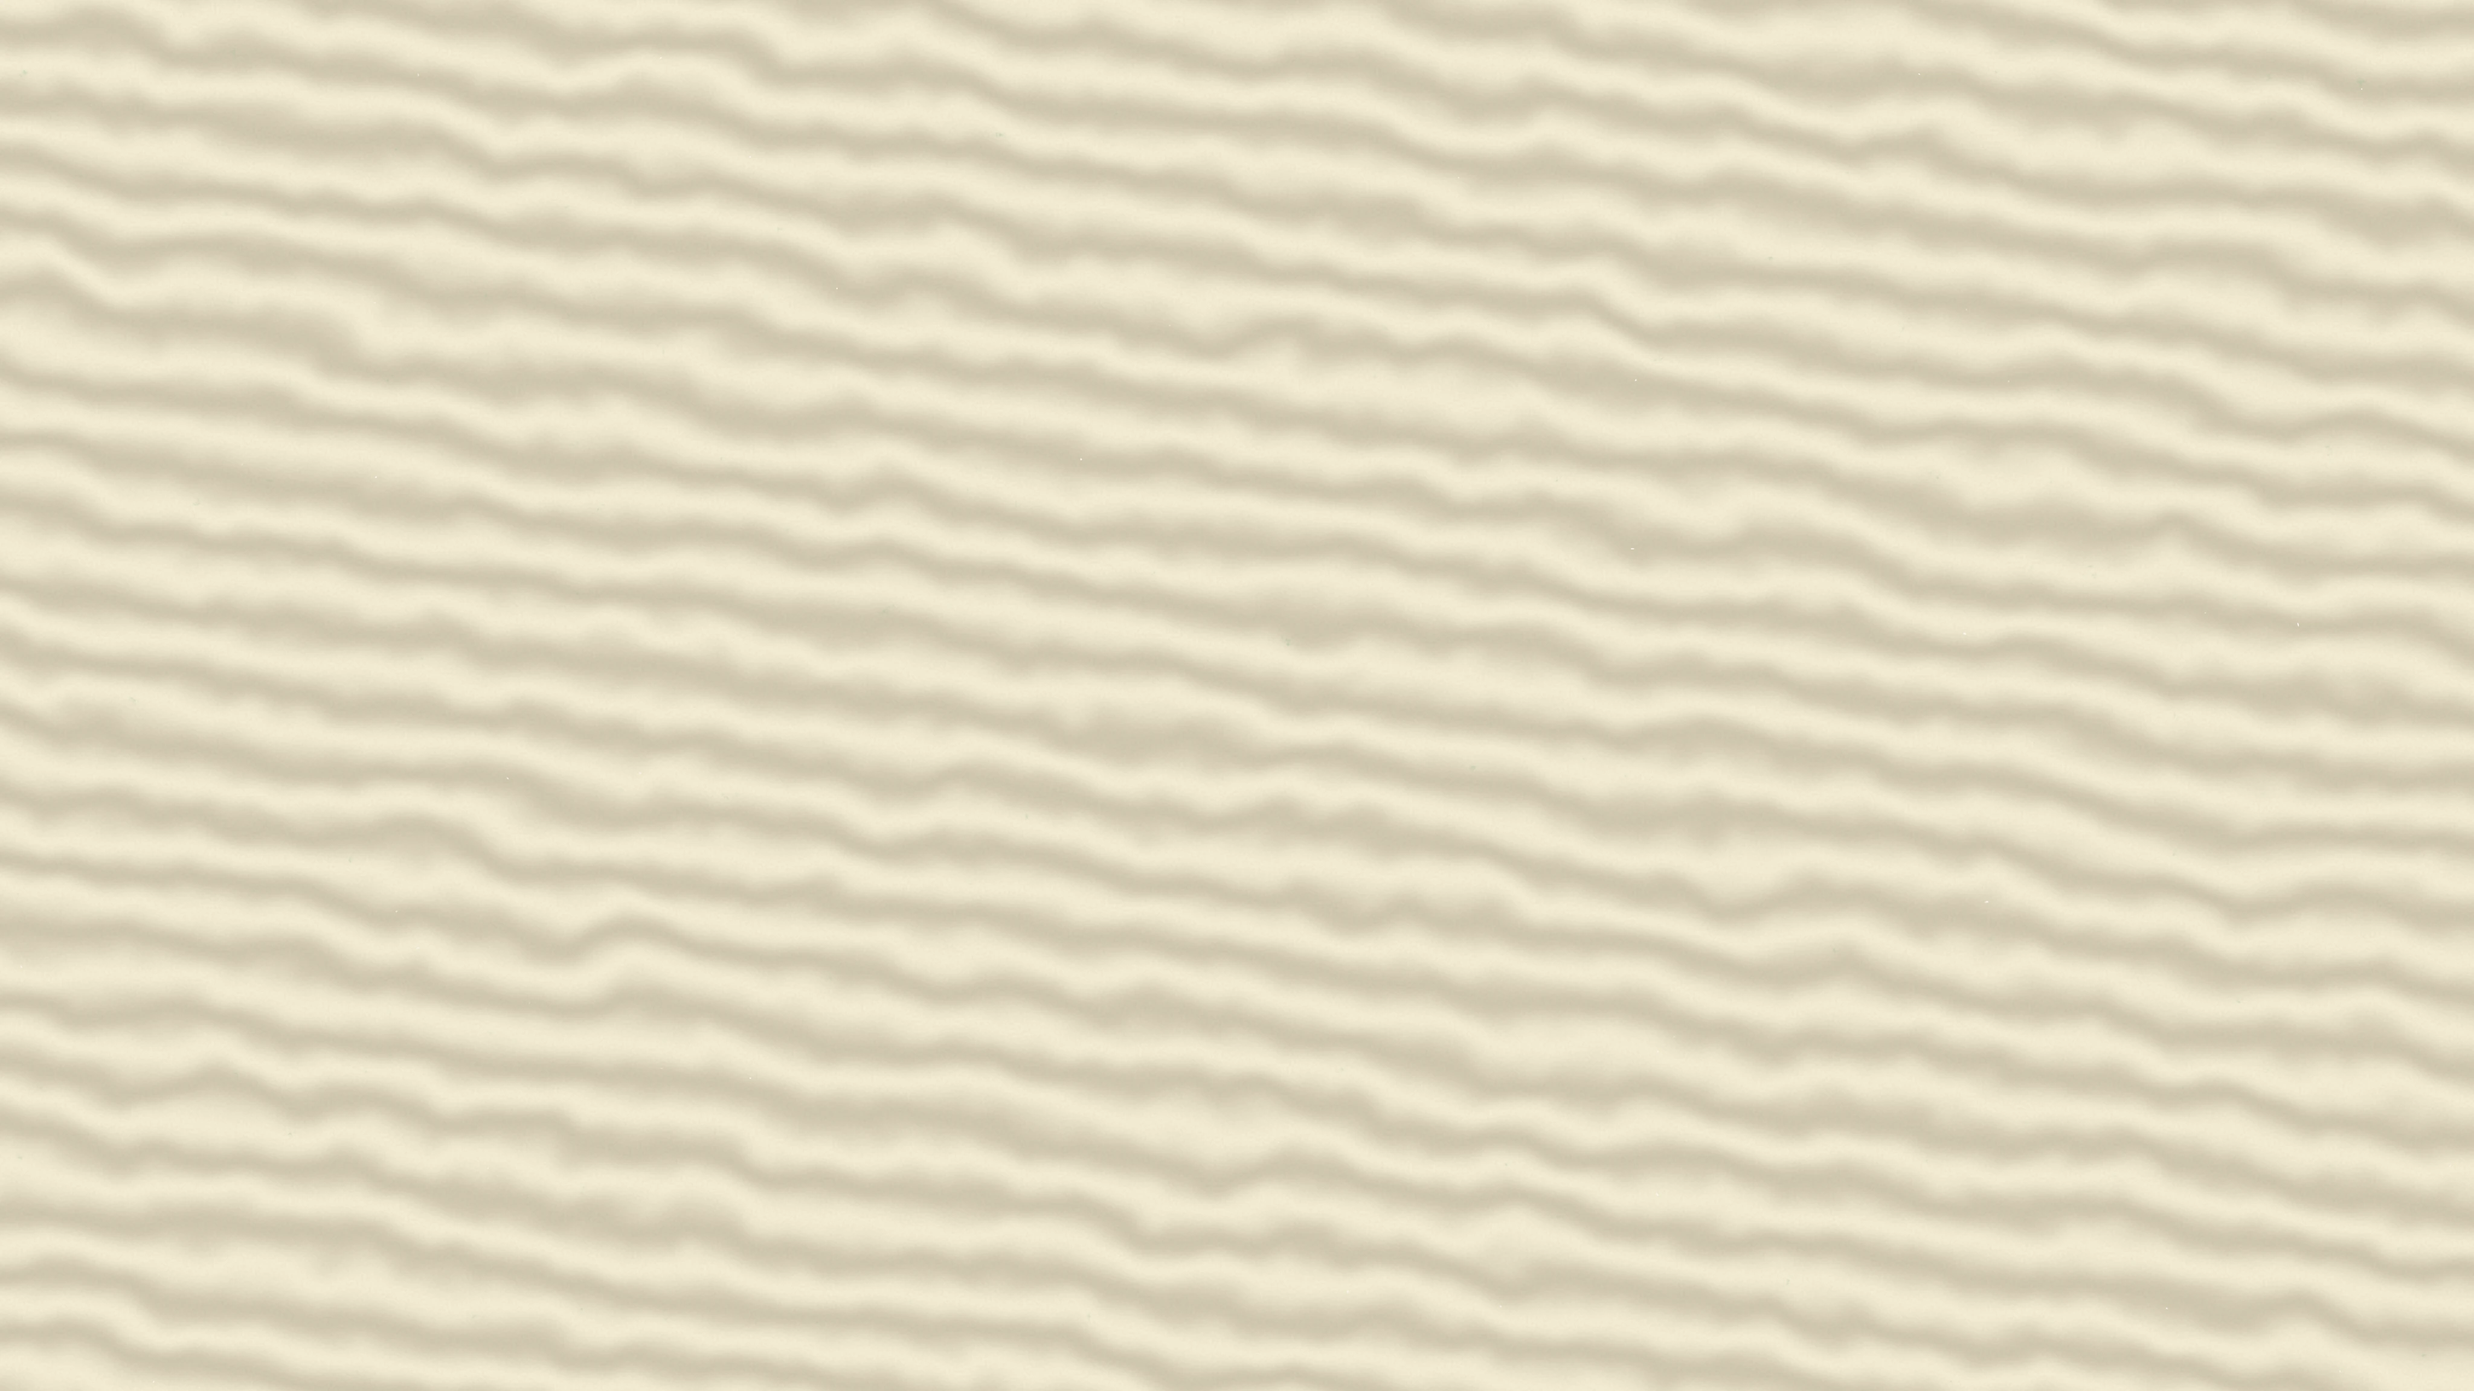
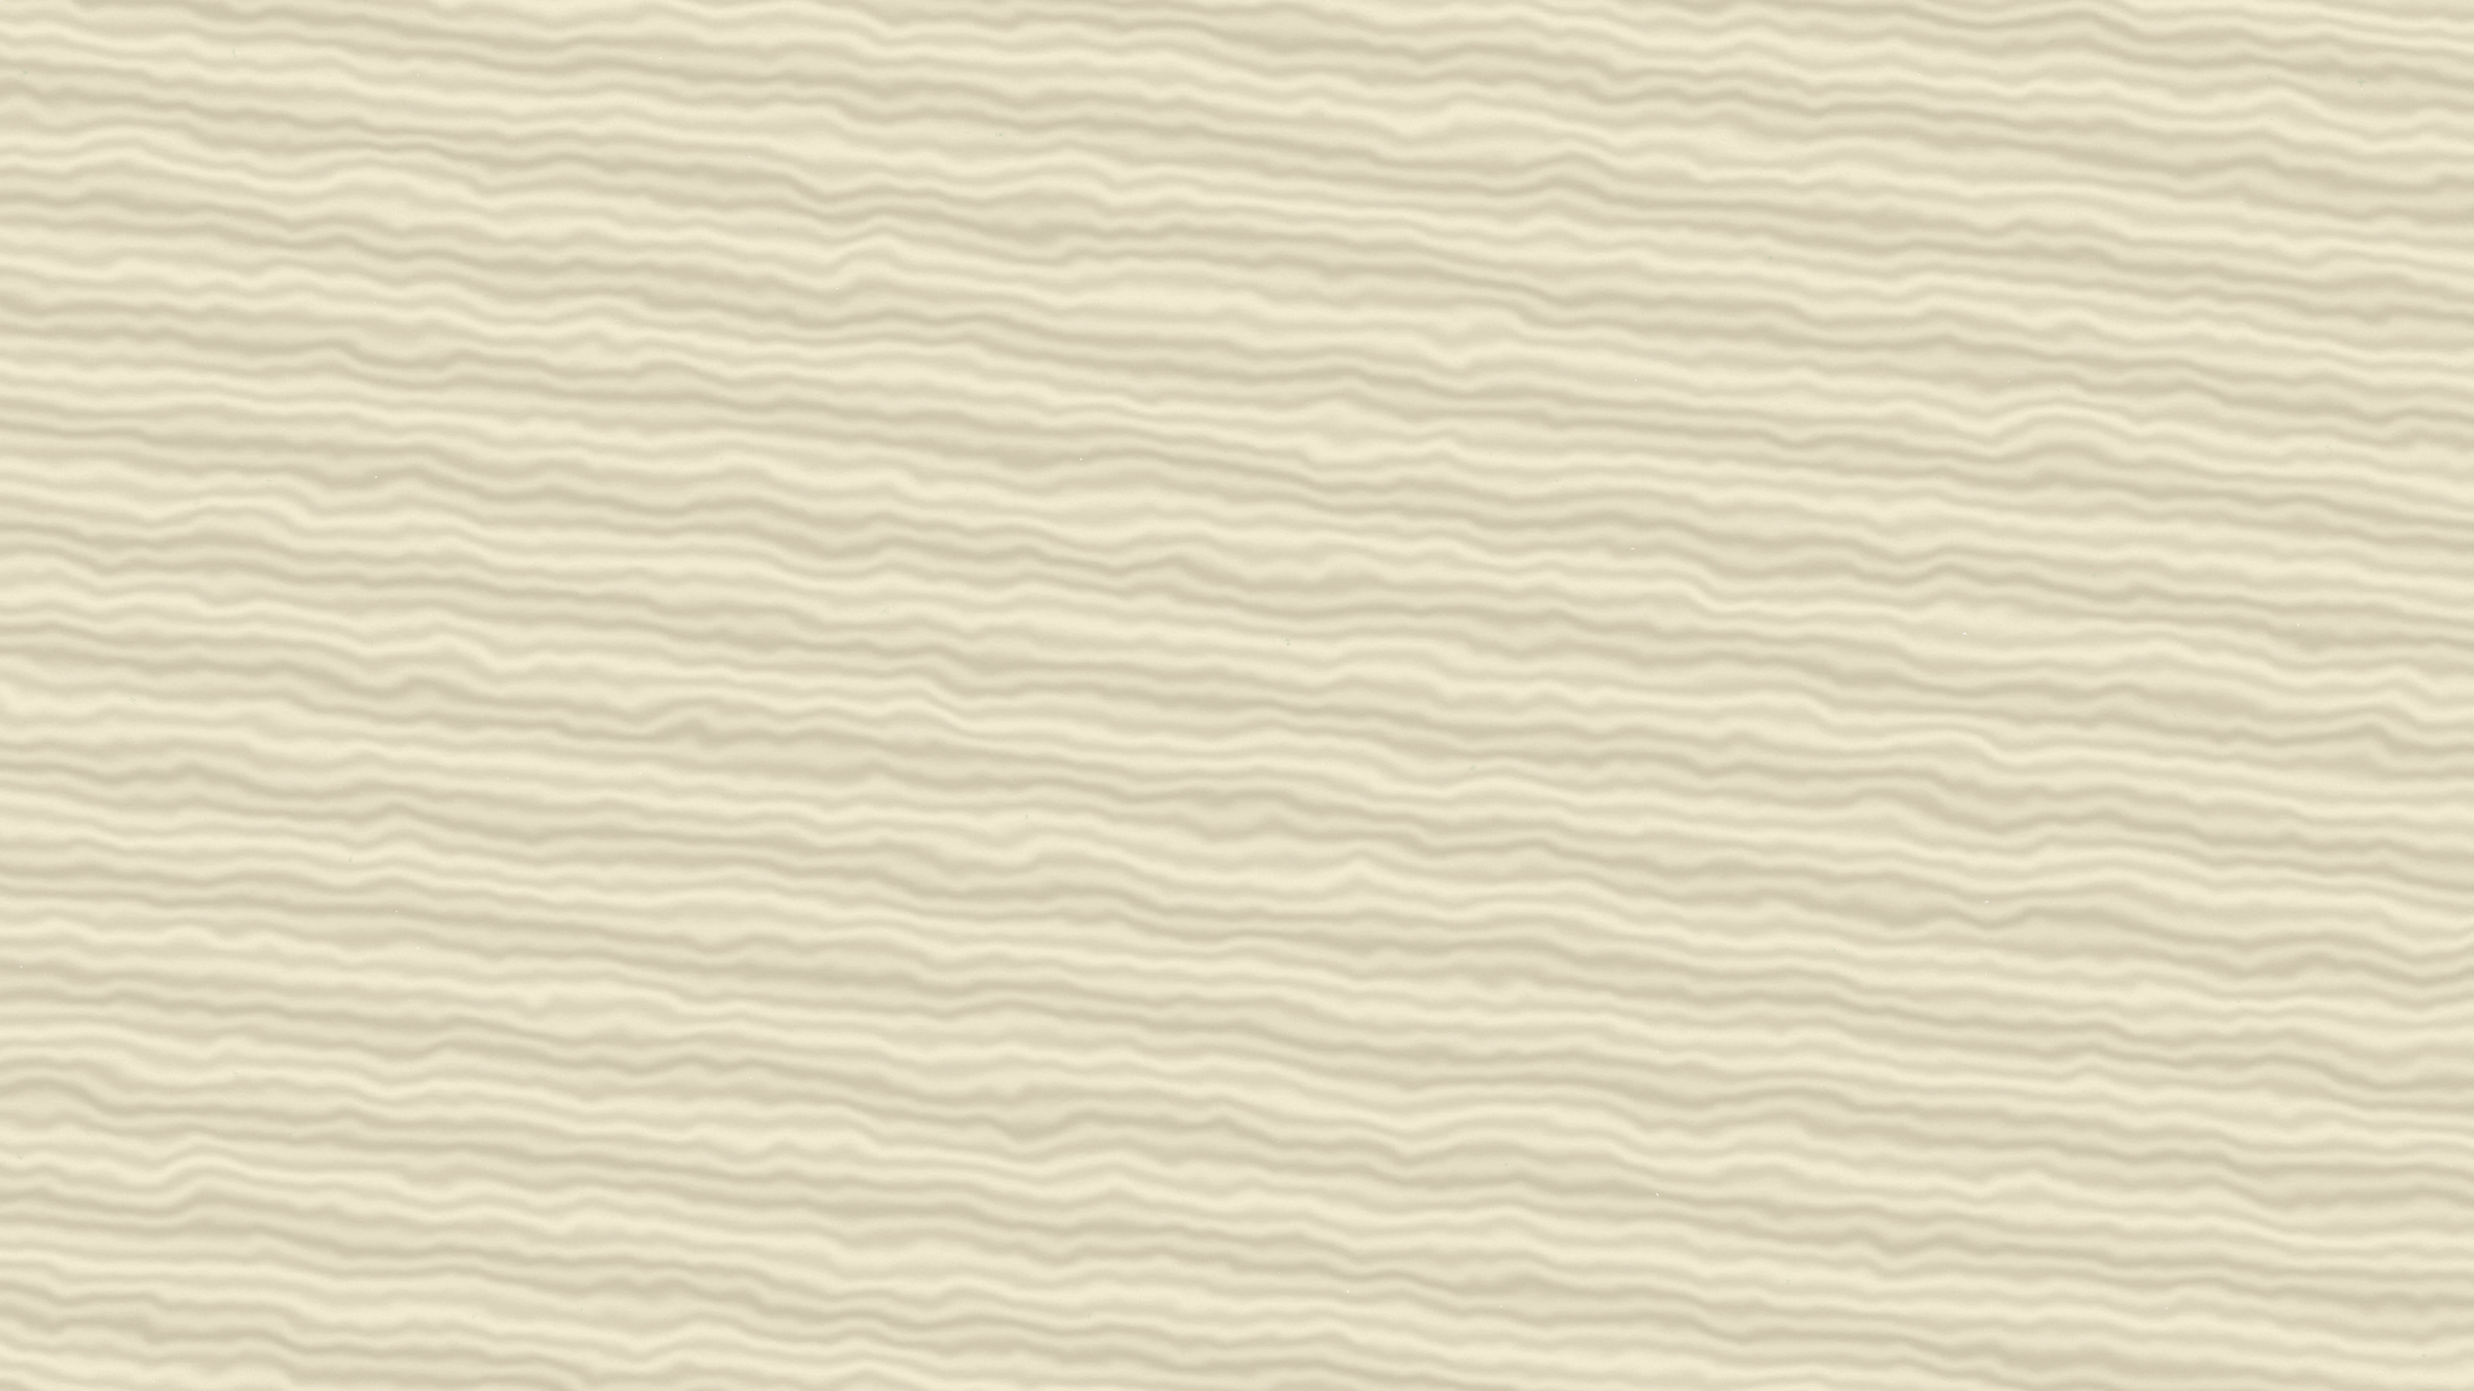
Aspect-aware world: no more stretching on phones
World size now follows the viewport aspect at constant area; the wave
grid, bind groups and plant placement rebuild on resize while fish keep
their relative positions. Bed bakes are cropped to the world aspect
instead of stretched. Lagoon sand rebaked with finer ripples.

diff --git a/src/gpu/plants-pass.ts b/src/gpu/plants-pass.ts
@@ -23,7 +23,11 @@ export class PlantsPass {
   private crumbCount = 0;
   /** One uniform block per mode (0 surface, 1 shadow) so both passes can live in one command buffer. */
   private readonly params: UniformBlock[];
-  private readonly bindGroups: GPUBindGroup[][];
+  private bindGroups: GPUBindGroup[][];
+  private readonly layout: GPUBindGroupLayout;
+  private readonly sampler: GPUSampler;
+  private readonly env: EnvironmentTextures;
+  private readonly wave: WaveField;
   private readonly shadowPipeline: GPURenderPipeline;
   private readonly surfacePipeline: GPURenderPipeline;
 
@@ -31,6 +35,8 @@ export class PlantsPass {
 
   constructor(device: GPUDevice, wave: WaveField, env: EnvironmentTextures) {
     this.sprites = env.sprites;
+    this.env = env;
+    this.wave = wave;
     this.instances = device.createBuffer({
       label: "plant instances",
       size: MAX_PLANT_INSTANCES * PLANT_INSTANCE_FLOATS * 4,
@@ -54,19 +60,9 @@ export class PlantsPass {
         { binding: 4, visibility: GPUShaderStage.FRAGMENT, texture: { viewDimension: "2d-array" } },
       ],
     });
-    const sampler = device.createSampler({ magFilter: "linear", minFilter: "linear", addressModeU: "clamp-to-edge", addressModeV: "clamp-to-edge" });
-    this.bindGroups = this.params.map((block) => [0, 1, 2].map((i) =>
-      device.createBindGroup({
-        layout,
-        entries: [
-          { binding: 0, resource: { buffer: block.buffer } },
-          { binding: 1, resource: { buffer: wave.bufferAt(i) } },
-          { binding: 2, resource: env.sprites.texture.createView({ dimension: "2d-array" }) },
-          { binding: 3, resource: sampler },
-          { binding: 4, resource: env.sprites.normals.createView({ dimension: "2d-array" }) },
-        ],
-      }),
-    ));
+    this.layout = layout;
+    this.sampler = device.createSampler({ magFilter: "linear", minFilter: "linear", addressModeU: "clamp-to-edge", addressModeV: "clamp-to-edge" });
+    this.bindGroups = this.makeBindGroups();
 
     const module = device.createShaderModule({ label: "plants", code: plantShader });
     const makePipeline = (label: string): GPURenderPipeline =>
@@ -104,6 +100,26 @@ export class PlantsPass {
   }
 
   /** Upload per-frame uniforms. Called once before either draw. */
+  private makeBindGroups(): GPUBindGroup[][] {
+    return this.params.map((block) => [0, 1, 2].map((i) =>
+      this.device.createBindGroup({
+        layout: this.layout,
+        entries: [
+          { binding: 0, resource: { buffer: block.buffer } },
+          { binding: 1, resource: { buffer: this.wave.bufferAt(i) } },
+          { binding: 2, resource: this.env.sprites.texture.createView({ dimension: "2d-array" }) },
+          { binding: 3, resource: this.sampler },
+          { binding: 4, resource: this.env.sprites.normals.createView({ dimension: "2d-array" }) },
+        ],
+      }),
+    ));
+  }
+
+  /** After the wave field was resized its buffers are new; bind to them again. */
+  rebindWave(): void {
+    this.bindGroups = this.makeBindGroups();
+  }
+
   /** Re-place the floating layer for an environment's foliage and upload it. */
   setFoliage(foliage: Foliage): void {
     this.layer.place(foliage, (name) => this.sprites.layerOf(name));

diff --git a/src/gpu/wave-field.ts b/src/gpu/wave-field.ts
@@ -9,24 +9,17 @@ import { UniformBlock } from "./device";
  * water pass samples.
  */
 export class WaveField {
-  readonly width = WORLD.width;
-  readonly height = WORLD.height;
-  private readonly buffers: GPUBuffer[];
-  private readonly bindGroups: GPUBindGroup[];
+  width = WORLD.width;
+  height = WORLD.height;
+  private buffers: GPUBuffer[];
+  private bindGroups: GPUBindGroup[];
   private readonly pipeline: GPUComputePipeline;
   private readonly params: UniformBlock;
   private readonly impulseBuffer: GPUBuffer;
   private rotation = 0;
 
   constructor(private readonly device: GPUDevice) {
-    const cells = this.width * this.height;
-    this.buffers = [0, 1, 2].map((i) =>
-      device.createBuffer({
-        label: `wave height ${i}`,
-        size: cells * 4,
-        usage: GPUBufferUsage.STORAGE | GPUBufferUsage.COPY_DST,
-      }),
-    );
+    this.buffers = this.makeBuffers();
     this.params = new UniformBlock(device, 32, "wave params");
     this.impulseBuffer = device.createBuffer({
       label: "wave impulses",
@@ -41,10 +34,25 @@ export class WaveField {
       compute: { module, entryPoint: "cs_wave" },
     });
 
+    this.bindGroups = this.makeBindGroups();
+  }
+
+  private makeBuffers(): GPUBuffer[] {
+    const cells = this.width * this.height;
+    return [0, 1, 2].map((i) =>
+      this.device.createBuffer({
+        label: `wave height ${i}`,
+        size: cells * 4,
+        usage: GPUBufferUsage.STORAGE | GPUBufferUsage.COPY_DST,
+      }),
+    );
+  }
+
+  /** Rotation r reads prev=r, curr=r+1, writes next=r+2 (mod 3). */
+  private makeBindGroups(): GPUBindGroup[] {
     const layout = this.pipeline.getBindGroupLayout(0);
-    // Rotation r reads prev=r, curr=r+1, writes next=r+2 (mod 3).
-    this.bindGroups = [0, 1, 2].map((r) =>
-      device.createBindGroup({
+    return [0, 1, 2].map((r) =>
+      this.device.createBindGroup({
         label: `wave bind ${r}`,
         layout,
         entries: [
@@ -56,6 +64,17 @@ export class WaveField {
         ],
       }),
     );
+  }
+
+  /** Change the grid to a new world size. Callers must rebuild anything bound to the old buffers. */
+  resize(width: number, height: number): void {
+    if (width === this.width && height === this.height) return;
+    for (const b of this.buffers) b.destroy();
+    this.width = width;
+    this.height = height;
+    this.buffers = this.makeBuffers();
+    this.bindGroups = this.makeBindGroups();
+    this.rotation = 0;
   }
 
   /** The buffer holding the latest heights, for the water pass to read. */

diff --git a/src/main.ts b/src/main.ts
@@ -1,6 +1,6 @@
 import { Soundscape } from "./audio/soundscape";
 import { FixedClock } from "./core/clock";
-import { KOI, WAVE, WEATHER, WORLD } from "./core/config";
+import { KOI, setWorldSize, WAVE, WEATHER, WORLD, worldSizeFor } from "./core/config";
 import { ENVIRONMENTS, getEnvironment } from "./core/environments";
 import { CUSTOM_PALETTE_ID, customPalette, getPalette, hexToRgb, PALETTES, rgbToHex } from "./core/palettes";
 import { createGpu } from "./gpu/device";
@@ -27,6 +27,9 @@ async function boot(): Promise<void> {
     return { width, height };
   };
   fitCanvas();
+  // Shape the world to the viewport so nothing is stretched (portrait phones get a tall pond).
+  const initialWorld = worldSizeFor(canvas.width / canvas.height);
+  setWorldSize(initialWorld.width, initialWorld.height);
 
   const gpu = await createGpu(canvas);
   const impulses = new SurfaceImpulses();
@@ -278,6 +281,14 @@ async function boot(): Promise<void> {
       resizePending = false;
       const size = fitCanvas();
       renderer.resize(size.width, size.height);
+      const world = worldSizeFor(size.width / size.height);
+      if (world.width !== WORLD.width || world.height !== WORLD.height) {
+        const sx = world.width / WORLD.width;
+        const sy = world.height / WORLD.height;
+        setWorldSize(world.width, world.height);
+        school.resize(sx, sy);
+        renderer.setWorld(world.width, world.height);
+      }
     }
     renderer.frame(school, impulses, clock.time, frameDt, showDebug);
     sound.setRain(renderer.rainPerSecond);

diff --git a/src/core/config.ts b/src/core/config.ts
@@ -1,14 +1,32 @@
 // Single tuning file. Everything the sim and renderer read lives here so a
 // settings UI can be layered on later without touching subsystem code.
 
+/**
+ * Logical pond size. The simulation runs in these units regardless of screen
+ * size. Width and height follow the viewport's aspect at constant area, so a
+ * portrait phone gets a 270×480 pond instead of a squashed 480×270 one.
+ */
 export const WORLD = {
-  /** Logical pond size. Simulation runs in these units regardless of screen size. */
   width: 480,
   height: 270,
+  /** Reference area the world keeps when it changes shape. */
+  area: 480 * 270,
   /** Render targets are world size × this. 2 keeps the illustrated look crisp on retina. */
   renderScale: 2,
   updatesPerSecond: 60,
-} as const;
+};
+
+/** World size for a viewport aspect (width / height), keeping the reference area. */
+export function worldSizeFor(aspect: number): { width: number; height: number } {
+  const a = Math.max(0.4, Math.min(2.6, aspect));
+  const width = Math.round(Math.sqrt(WORLD.area * a));
+  return { width, height: Math.round(width / a) };
+}
+
+export function setWorldSize(width: number, height: number): void {
+  WORLD.width = width;
+  WORLD.height = height;
+}
 
 export const KOI = {
   count: 14,

diff --git a/src/gpu/renderer.ts b/src/gpu/renderer.ts
@@ -173,6 +173,7 @@ export class Renderer {
     this.postBind = this.makePostBind();
 
     this.writeStaticUniforms();
+    this.setWorld(WORLD.width, WORLD.height);
   }
 
   /** One bind group per wave buffer rotation so we never rebuild mid-frame. */
@@ -199,6 +200,23 @@ export class Renderer {
         { binding: 2, resource: this.sampler },
       ],
     });
+  }
+
+  /** The world changed shape (viewport aspect): rebuild the wave grid and everything bound to it. */
+  setWorld(width: number, height: number): void {
+    this.wave.resize(width, height);
+    this.waterBinds = this.makeWaterBinds();
+    this.plants.rebindWave();
+    this.plants.setFoliage(this.environmentTarget.foliage);
+    const f = this.fishParams.floats;
+    f[0] = width; f[1] = height;
+    this.fishParams.upload();
+    // Crop the 16:9 bed bake to this aspect (never stretch).
+    const worldAspect = width / height;
+    const texAspect = 16 / 9;
+    const b = this.bedParams.floats;
+    if (worldAspect < texAspect) { b[27] = worldAspect / texAspect; b[31] = 1; } else { b[27] = 1; b[31] = texAspect / worldAspect; }
+    b[35] = worldAspect;
   }
 
   /** Match the offscreen targets to the canvas so the scene renders at native resolution. */

diff --git a/src/sim/school.ts b/src/sim/school.ts
@@ -43,6 +43,19 @@ export class School {
     this.food.toss(point);
   }
 
+  /** The world changed shape: keep every fish at the same relative spot. */
+  resize(scaleX: number, scaleY: number): void {
+    for (const k of this.fish) {
+      k.position = { x: k.position.x * scaleX, y: k.position.y * scaleY };
+      for (let n = 0; n < k.spine.length; n += 1) {
+        k.spine[n] = { x: k.spine[n].x * scaleX, y: k.spine[n].y * scaleY };
+        k.renderSpine[n] = { ...k.spine[n] };
+      }
+    }
+    this.target = { x: this.target.x * scaleX, y: this.target.y * scaleY };
+    this.food.reset();
+  }
+
   setCount(n: number): void {
     this.count = clamp(Math.round(n), 1, KOI.maxCount);
   }

diff --git a/tools/blender/bake_pond_bed.py b/tools/blender/bake_pond_bed.py
@@ -180,13 +180,15 @@ def leaf_litter(g, p, scale, colors):
     return color, h, mask
 
 
-def sand(g, p, dark, light, ripple_scale=14.0):
-    """Rippled sand: warped sine bands, fine speckle, pale shell fragments."""
-    wp = warp(g, p, 1.2, 0.5, (7.0, 3.0))
+def sand(g, p, dark, light, ripple_scale=38.0):
+    """Rippled sand: two warped sine band sets (fine ripples over a broad swell), speckle, shell fragments."""
+    wp = warp(g, p, 1.6, 0.35, (7.0, 3.0))
     sep = g.node("ShaderNodeSeparateXYZ")
     g.links.new(wp, sep.inputs[0])
-    band = g.math("SINE", g.math("ADD", g.math("MULTIPLY", sep.outputs[1], ripple_scale), g.math("MULTIPLY", sep.outputs[0], 2.0)))
-    band = g.math("MULTIPLY", g.math("ADD", band, 1.0), 0.5)
+    fine_band = g.math("SINE", g.math("ADD", g.math("MULTIPLY", sep.outputs[1], ripple_scale), g.math("MULTIPLY", sep.outputs[0], 3.0)))
+    swell = g.math("SINE", g.math("ADD", g.math("MULTIPLY", sep.outputs[1], ripple_scale * 0.23), g.math("MULTIPLY", sep.outputs[0], 1.2)))
+    band = g.math("ADD", g.math("MULTIPLY", fine_band, 0.3), g.math("MULTIPLY", swell, 0.2))
+    band = g.math("ADD", band, 0.5)
     fine = noise(g, p, 60.0, 2.0, 0.5, (1.0, 1.0))
     color = ramp2(g, band, dark, light)
     color = g.mul_color(color, g.math("ADD", g.math("MULTIPLY", g.math("SUBTRACT", fine.outputs["Fac"], 0.5), 0.16), 1.0))

diff --git a/README.md b/README.md
@@ -56,7 +56,7 @@ Frame pipeline:
 - **Plants**: baked sprite normal maps (1024), lit by sun + sky on a plane tilted by the water; pads get a waxy highlight.
 - **Shadows**: fish and plant shadows are offset by the sun direction and the object's height above the bed, so they swing round with the weather.
 
-The simulation runs in a fixed 480×270 world at 60 steps per second. Rendering happens at the canvas's native device resolution (device pixel ratio, capped at 3840 wide) and follows window resizes, so 4K bakes resolve on 4K displays.
+The simulation runs in a world sized to the viewport's aspect at a constant area (480×270 landscape, 270×480 on a portrait phone) at 60 steps per second, so nothing is ever stretched; the 16:9 bed bakes are cropped to the world's aspect. Resizing or rotating rebuilds the wave grid and re-places the plants while fish keep their relative positions. Rendering happens at the canvas's native device resolution (device pixel ratio, capped at 3840 wide) and follows window resizes, so 4K bakes resolve on 4K displays.
 
 ## Blender asset pipeline
 
